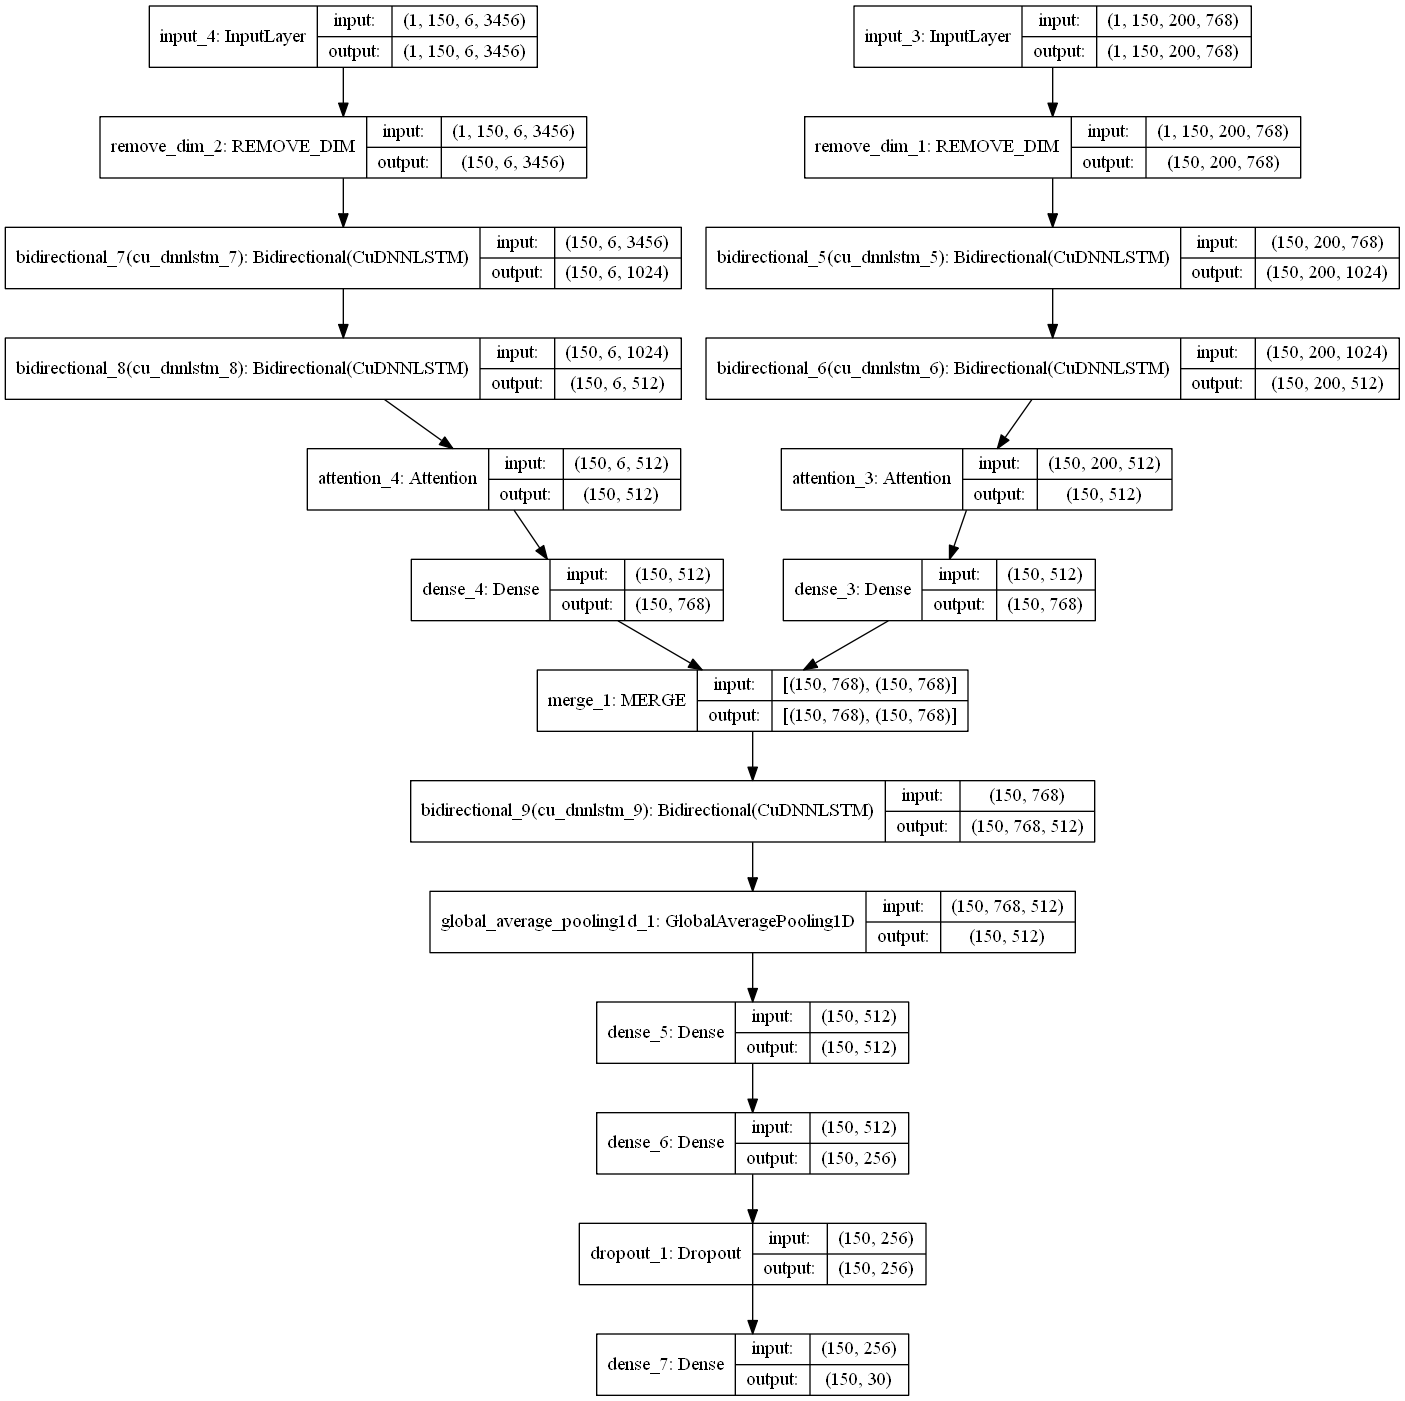
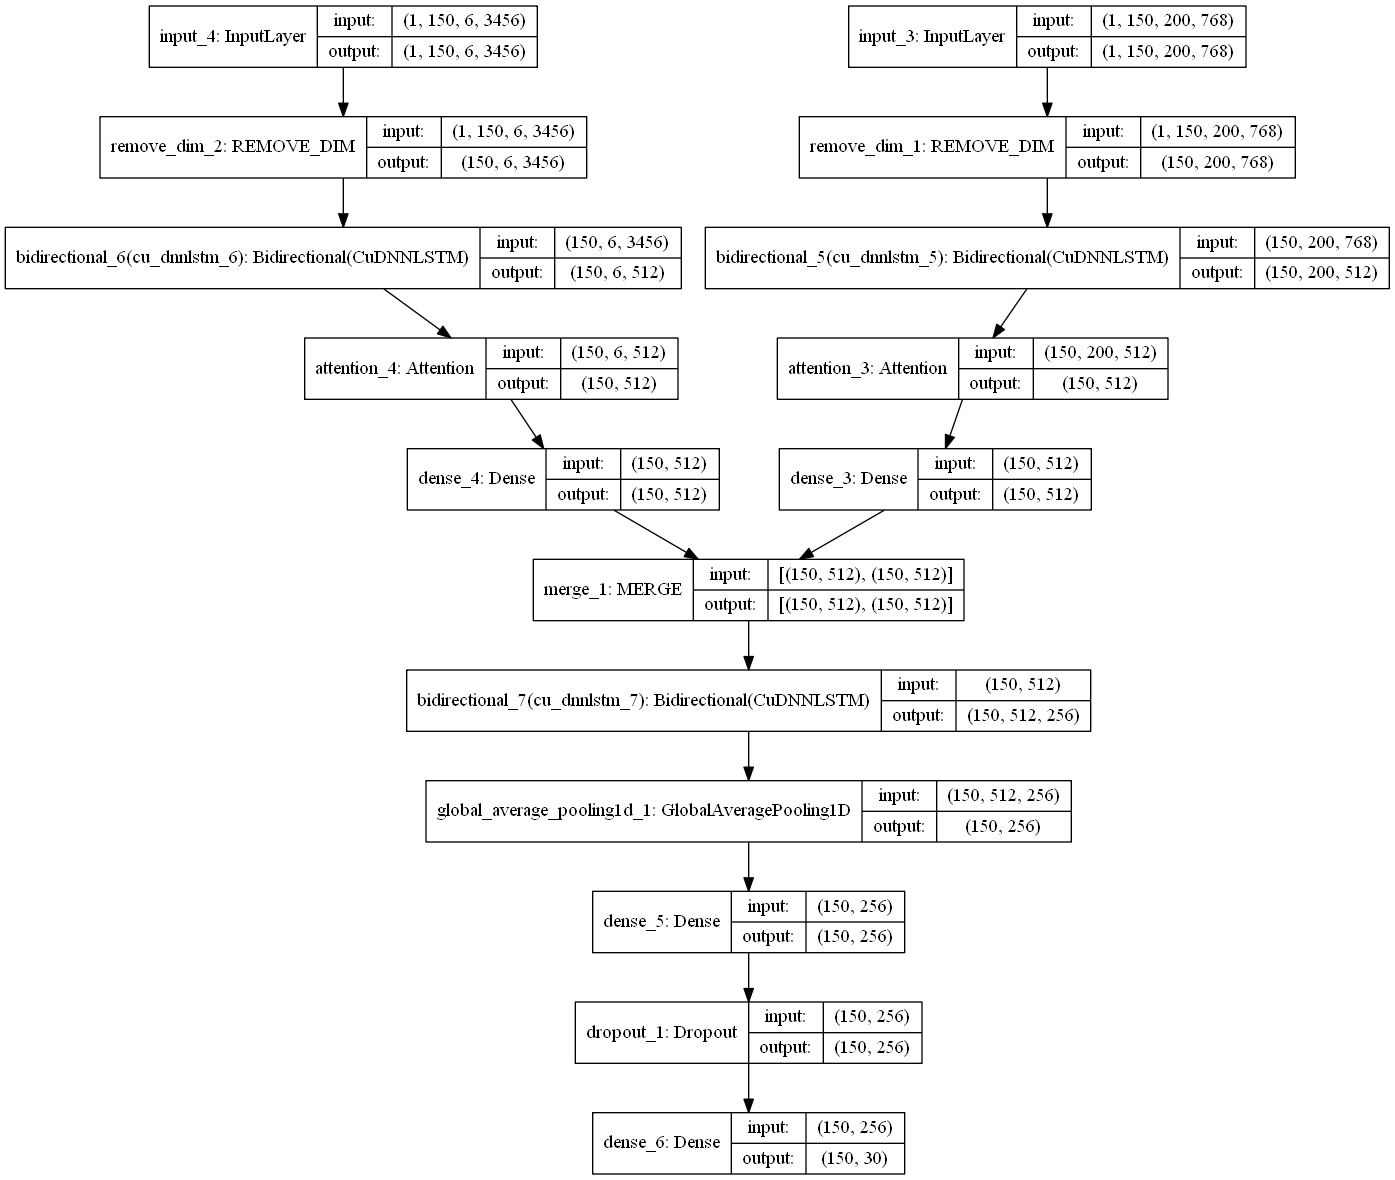
report

Changed region(s): [[0.0, 0.0, 1.0, 1.0]]

diff --git a/assign/models/model.py b/assign/models/model.py
@@ -38,14 +38,14 @@ class MODEL(BASE):
 		# text_encoding
 		text_encoding = REMOVE_DIM()(text)
 		text_encoding = Bidirectional(CuDNNLSTM(units=256, return_sequences=True))(text_encoding)
-		text_encoding = Bidirectional(CuDNNLSTM(units=128, return_sequences=True))(text_encoding)
+		# text_encoding = Bidirectional(CuDNNLSTM(units=128, return_sequences=True))(text_encoding)
 		text_encoding = Attention(self.vars.MAX_SENTENCE_LENGTH)(text_encoding)
 		text_encoding = Dense(512, activation='relu')(text_encoding)
 
 		# speech_encoding
 		speech_encoding = REMOVE_DIM()(speech)
 		speech_encoding = Bidirectional(CuDNNLSTM(units=256, return_sequences=True))(speech_encoding)
-		speech_encoding = Bidirectional(CuDNNLSTM(units=128, return_sequences=True))(speech_encoding)
+		# speech_encoding = Bidirectional(CuDNNLSTM(units=128, return_sequences=True))(speech_encoding)
 		speech_encoding = Attention(self.vars.NUM_SEGMENTS_PER_AUDIO)(speech_encoding)
 		speech_encoding = Dense(512, activation='relu')(speech_encoding)
 
@@ -56,8 +56,8 @@ class MODEL(BASE):
 		layer = GlobalAveragePooling1D()(layer)
 		layer = Dense(256, activation='relu')(layer)
 		layer = Dropout(0.3)(layer)
-		layer = Dense(256, activation='relu')(layer)
-		layer = Dropout(0.3)(layer)
+		# layer = Dense(256, activation='relu')(layer)
+		# layer = Dropout(0.3)(layer)
 		# layer = Dense(256, activation='relu')(layer)
 		layer = Dense(self.vars.NUM_DAYS_PRED)(layer)
 

diff --git a/Readme.md b/Readme.md
@@ -1,20 +1,57 @@
 # Stock Price Prediction Using Multi-Modal Features (Audio + Text Transcripts)
 
 ###### Data
+The data consists of the audio recordings of quarterly board performance meetings where the stock performance of publically traded companies is announced and predictions for future performance are made. The data also consists of the text transcripts of the same meetings. The target is the stock prices for the next 30 days.
+
+* The audio and text data is the dataset mentioned in the paper, consisting of a total of 575 meetings with subsequent audio and text transcripts.
+
+* The paper mentions the use of CSRP data for the stock prices as the target, but i used the data from the yahoo finance website. The adjusted closing prices is used as the target.
+
+* The data contains audio files for each sentence in the transcript.
+
+
 ###### Approach
+
+The problem statement is a multimodal approach for stock prices prediction, Relying on the correlation between, text and audio data. The main study is of taking the sentiment queues from the audio data and the contextual information from the text and learning a joint representation for accurate prediction of stock prices.
+
+* To obtain the certain speech features from the audio, i used a pretrained speech sentiment classifier and took the last hidden layer activations as the input feature representation for the audio. The speech sentiment classifier uses MFCC features as input and uses convolutional filters to learn the embeddings for speech.
+* To obtain the word embeddings for the text data, i used a pretrained BERT model. Instead of using pretrained glove encodings, i went for BERT because of it's ability to learn context information within the embeddings.
+* The sentences from the text transcript are padded to be of same length and are converted to sequences through the BERT embeddings. These embedded sentence sequences serve as the input features for the text data.
+ * Each of the text and audio input features are passed through a BiLSTM Layer with an attention head to produce the within modality encodings.
+ * To learn the correlation between modalities, both encodings are concatenated and are passed through a BiLSTM layer which produces the combined encoding of both modalities.
+ * These encodings are then passed through a feed forward layer with a dropout regularizer.
+ * Finally this is passed through a regression layer that predicts the next 30 days of stock prices.
+ * I compare 3-day, 7-day, 15-day and 30-day activations for generating the scores.
+
+The scores are generated according to the formula for stock volatility mentioned in the paper :
+
+${MSE = \frac{1}{M}\sum_{i=1}^{M}(f(X_{i}) - y_{i})^{2}}$
+
+Where $f(X_i)$ is the predicted volatility and $y_i$ is the tru volatility for example $i$.
+
+And volatility is defined as :
+$v_{[t-\tau, t]} = \ln(\sqrt{\frac{\sum_{i=0}^{\tau}(r_{t-i} - \bar r)^2}{\tau}})$
+
+
+where $r_t$ is the return price at day $t$ and $\bar r$ is the mean of the return price over the period of day $t − τ$ to day $t$.
+
+and return price is defined as $r_t = \frac{P_t}{P_{t-1}}-1$
+
+where $P_t$ is the closing price on day $t$
+
 ###### Model
-The model follows the general architecture of the model mentioned in the paper in that it also first creates a within unimodal encoding and then creates a between modals encoding which is then passed to a regression model that predicts the next 30 days of prices.
-But instead of using 27 core features of the speech, i used encodings generated from a pretrained speech emotion classifier model to generate the speech features, and instead of using glove encodings, i used bert encodings.
-Also, the unimodal encodings are generated from a similar architecture which is a transformer and are concatenated and passed to another transformer to learn multi-modal correlations.
-The output of this transformer is passed to a linear model which generates linear predictions for the next 30 days of stock prices.
-I compare 7-day, 15-day and 30-day activations for generating the scores.
+<img src='./assign/model_images/speech_encoder.pngtxt_enc.pngassign.png' alt='model architecture' />
+
 ###### Further improvements
-1. Instead of directly concatenating the audio and text encodings, use the approach similar to the paper [multimodal learning]().
-2. Use a better speech encoder like [pase]()
+1. Instead of directly concatenating the audio and text encodings, use the approach similar to the [paper](https://arxiv.org/pdf/1911.05544.pdf).
+2. Use a better speech encoder like [pase](https://arxiv.org/abs/1904.03416).
+3. The documents contain 3 different types of statements, generatl statements, past or current performance, future ambitions and predictions, these statements can be modelled separately to learn weighted features from each type of statement and utilize it to perform prediction and to get better insight how the speech queues affect the prediction.
 ###### References
 ###### Usage
+1. Clone the repo.
+2. Make a data folder in the root.
 1. Download the data from the [link](https://drive.google.com/file/d/15wtWZvSJicF_Ur2V45lCyCjNJQ7QfXth/view) mentioned in the paper.
-2. Extract the data
+2. Extract the data and move it to the features folder in the data folder.
 3. Run the script prepare_data.py : it'll create train, validation and test folders, convert the mp3 audios to wav files, and download the yahoo finance data.
 4. Run the training using train.py
 5. To predict, pass the directory where the data is stored and run test.py
@@ -34,16 +71,16 @@ I compare 7-day, 15-day and 30-day activations for generating the scores.
 </thead><tbody>
 <tr>
 <td>Paper</td>
-<td>0.78</td>
-<td>0.78</td>
-<td>0.78</td>
-<td>0.78</td>
+<td>1.371</td>
+<td>0.420</td>
+<td>0.300</td>
+<td>0.217</td>
 </tr>
 <tr>
 <td>Mine</td>
-<td>0.78</td>
-<td>0.78</td>
-<td>0.78</td>
-<td>0.78</td>
+<td>TBD</td>
+<td>TBD</td>
+<td>TBD</td>
+<td>TBD</td>
 </tr>
 </table>
